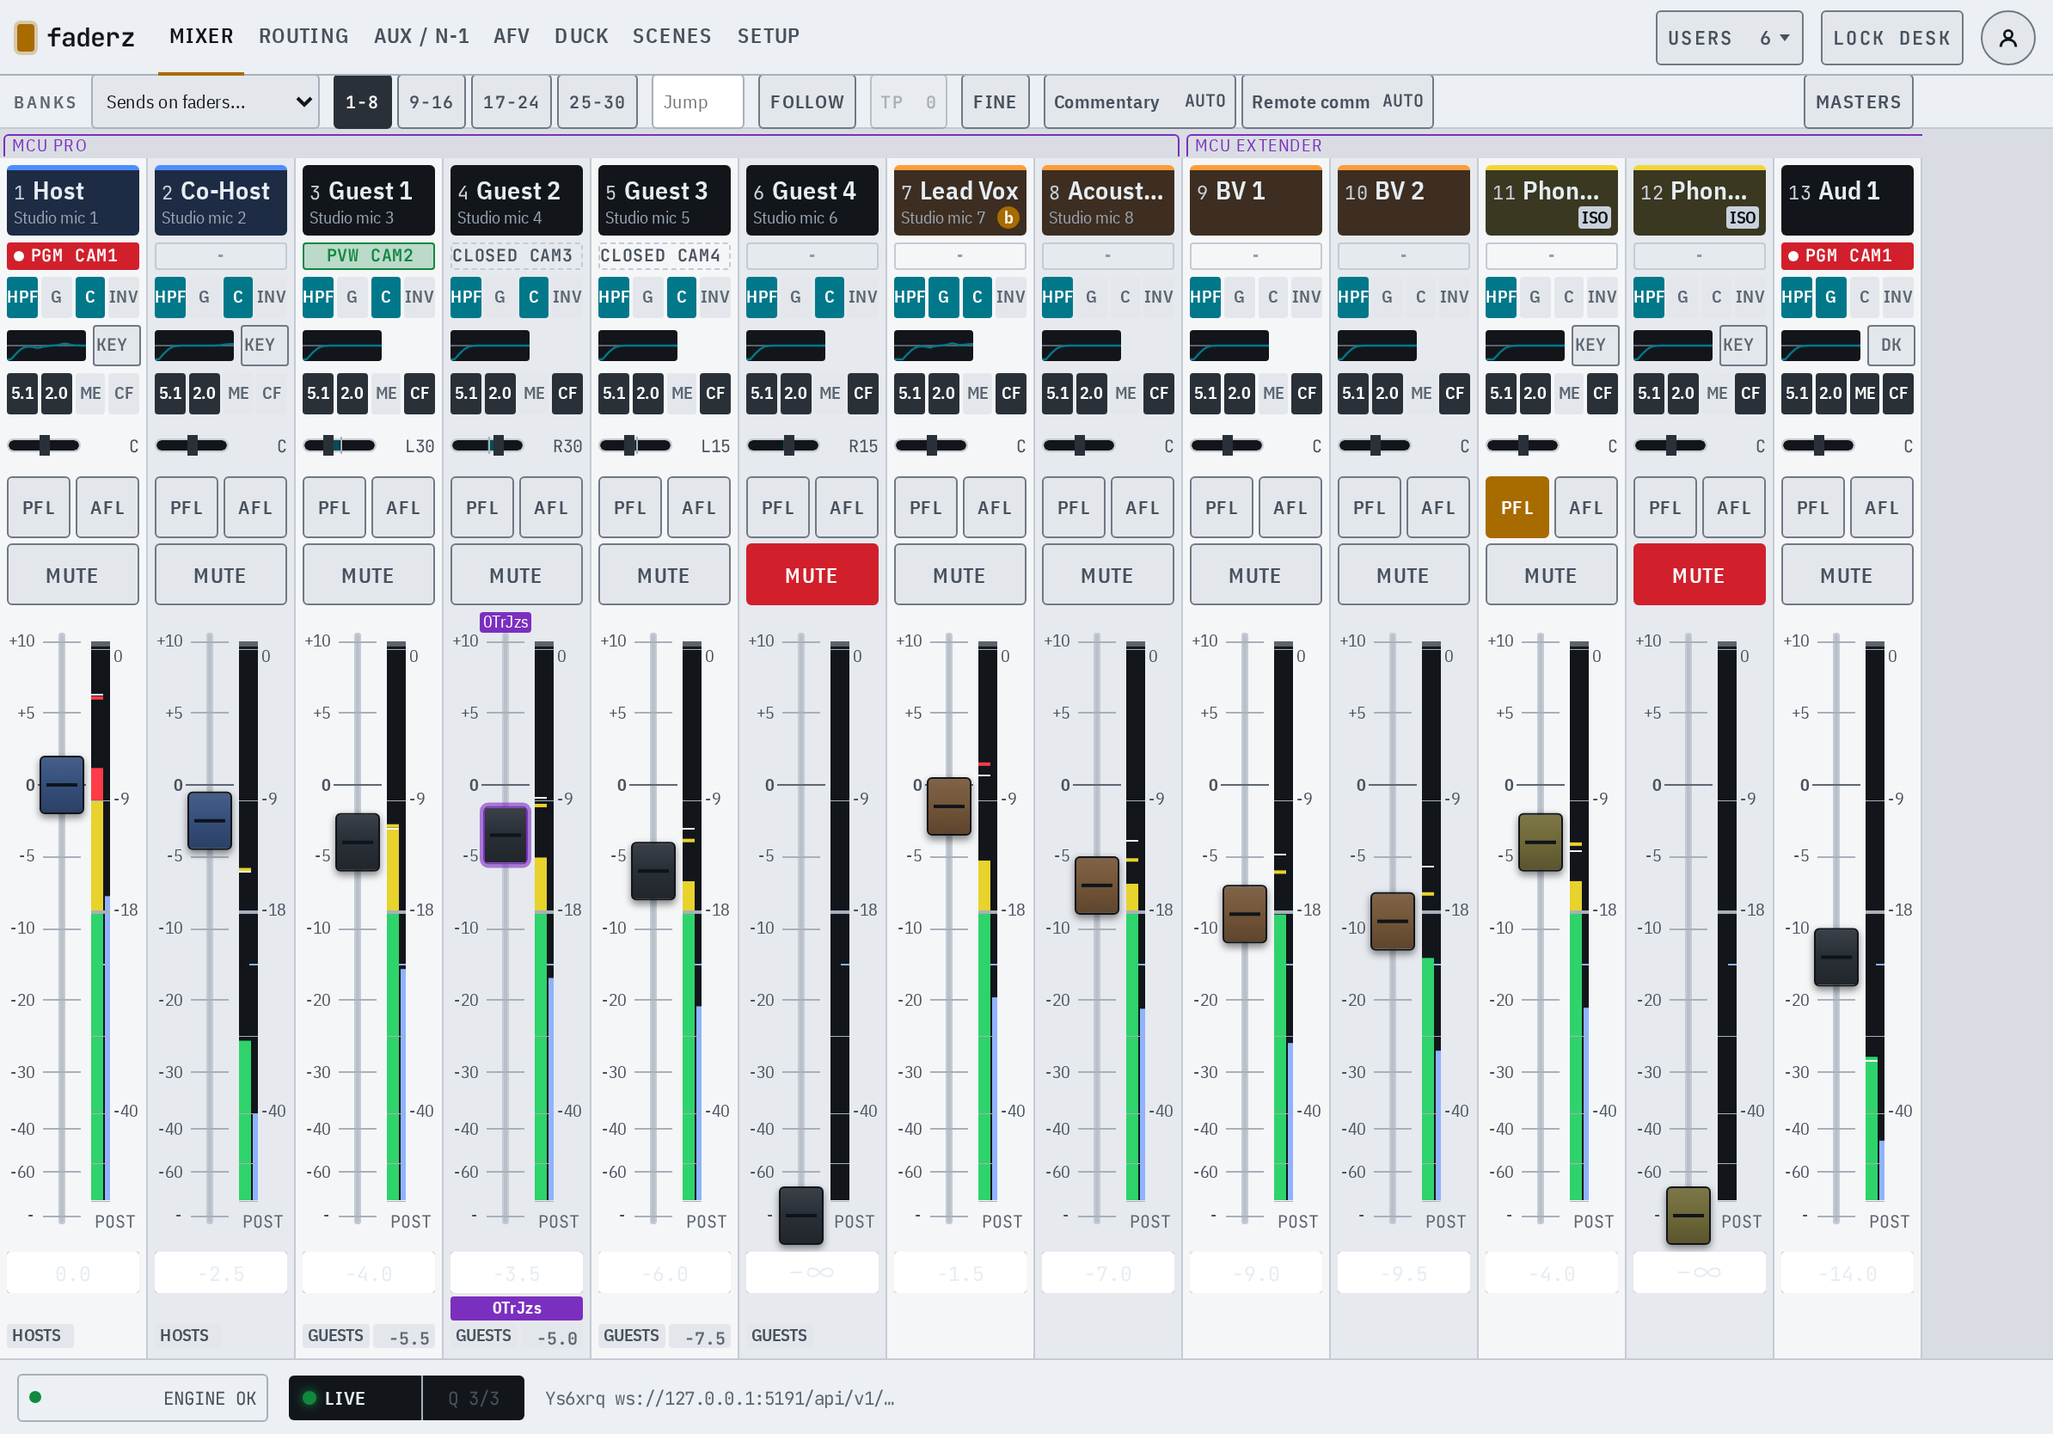
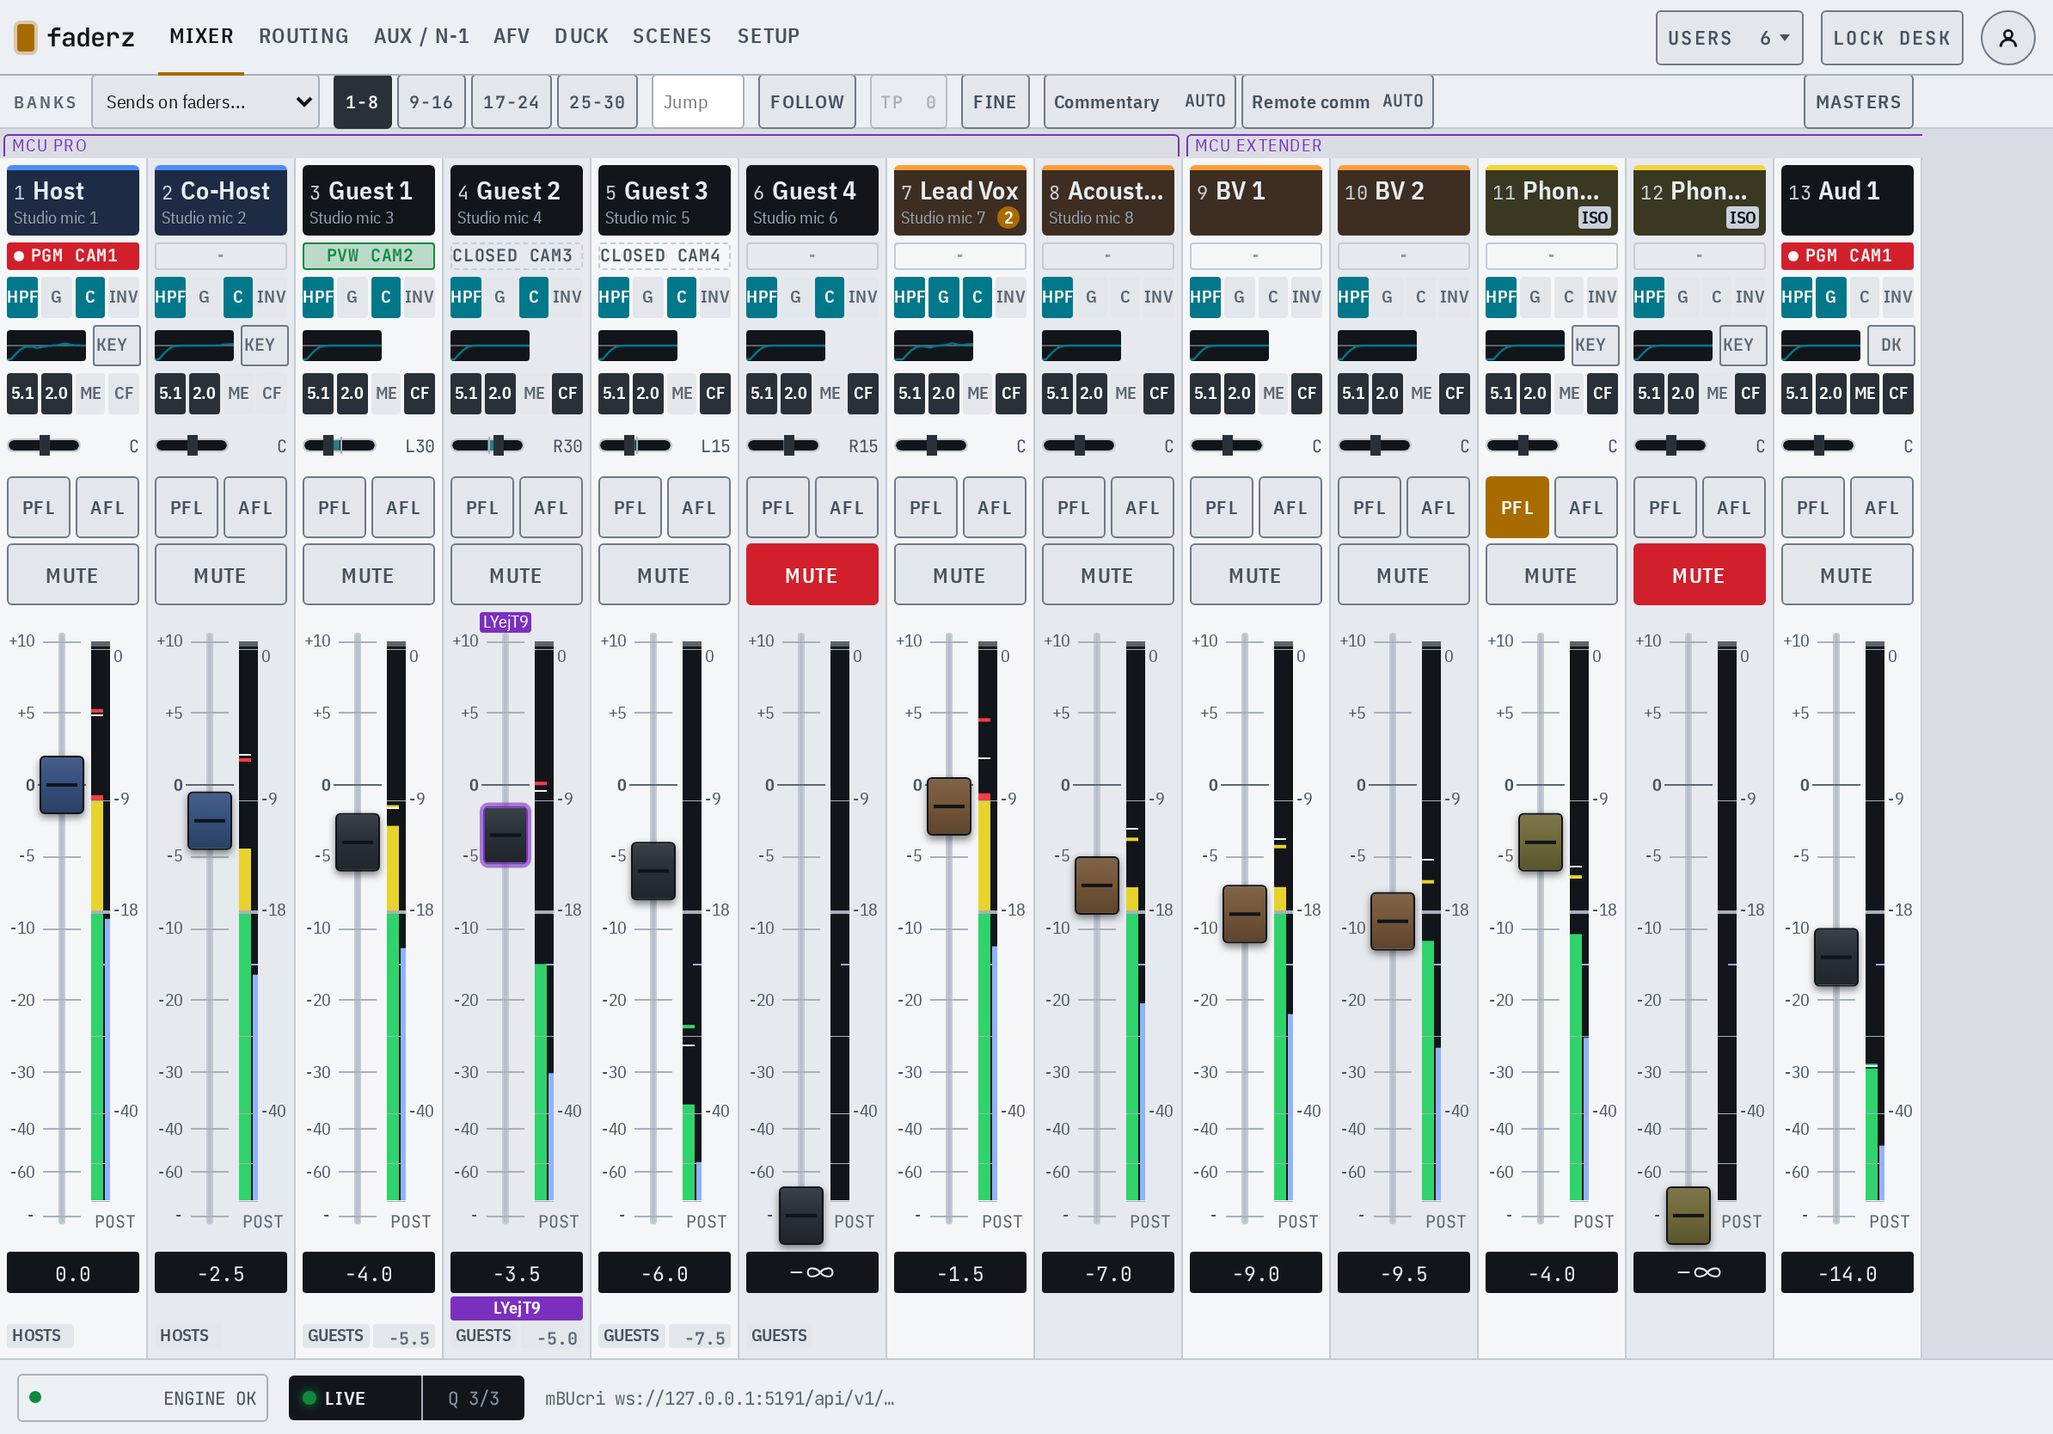
fix(web): read the text on dark display wells in the light theme (#213)
* fix(web): read the text on dark display wells in the light theme

A well stays dark in both themes, but some text and marks drawn on one
took theme tokens that turn dark in the light theme: the quorum field
of the connection key (2.3:1, and its degraded amber 4.1:1), the VCA
kind label (2.6:1), the loudness gap count, the duck key meter's over
fill (2.5:1) and the pan fill (1.9:1). They take --well-* tokens now,
with --well-warn, --well-owned and --well-afl added for the roles that
had none; the dark theme keeps its values.

A light-theme rule gave every text input a white face over its
component's own, so the fader readouts, transparent on their well,
showed light text on white (1.2:1), as did the delay entry. Text
fields take their face from --field instead: the well in the dark
theme, white in the light one. The sign-in field, a password input the
rule missed, showed dark text on the dark well and takes --field too.
An inline parameter value is now transparent until focused in the
light theme as well.

The contrast test parses every component and checks each text colour
set on an element on a well, or inside one, at 4.5:1 against the well
in both themes.

* docs: show the readable fader readouts in the light screenshot

The fader readouts and the quorum field read on their dark wells in
the light theme now.

* fix(web): draw the EQ curve in the well colours

The EQ curve sits on a well, which stays dark in both themes, but drew
[…]

diff --git a/web/tests/unit/contrast.test.ts b/web/tests/unit/contrast.test.ts
@@ -1,7 +1,8 @@
 // The theme tokens meet WCAG 2.2 AA where an operator reads them: text
 // at 4.5:1 on the surfaces it sits on, key edges at 3:1 (1.4.11).
 
-import { readFileSync } from 'node:fs';
+import { readdirSync, readFileSync } from 'node:fs';
+import { parse } from 'svelte/compiler';
 import { describe, expect, it } from 'vitest';
 import { SCRIBBLE_COLORS } from '../../src/lib/contract/types';
 
@@ -51,7 +52,7 @@ function resolve(value: string, t: Record<string, string>): string {
 describe.each([
   ['dark', dark],
   ['light', light],
-])('%s theme', (theme, t) => {
+])('%s theme', (_theme, t) => {
   it.each(['strip', 'strip-alt', 'panel', 'panel-2'])('faint text reads on --%s', (surface) => {
     expect(contrast(t['text-faint']!, t[surface]!)).toBeGreaterThanOrEqual(4.5);
   });
@@ -63,7 +64,7 @@ describe.each([
     expect(contrast('#ffffff', t['pgm']!)).toBeGreaterThanOrEqual(4.5);
     expect(contrast(t['afl-ink']!, t['afl']!)).toBeGreaterThanOrEqual(4.5);
   });
-  it.each(['well-mark', 'well-dim', 'well-duck'])('a mark of --%s shows on a well (3:1)', (mark) => {
+  it.each(['well-mark', 'well-dim', 'well-duck', 'well-warn', 'well-owned', 'well-afl'])('a mark of --%s shows on a well (3:1)', (mark) => {
     expect(contrast(t[mark]!, t['well']!)).toBeGreaterThanOrEqual(3);
   });
   it('a lit PAUSED loudness key carries readable ink', () => {
@@ -76,9 +77,7 @@ describe.each([
     expect(contrast(t['on']!, t['switch-off']!)).toBeGreaterThanOrEqual(3);
   });
   it('a typed number entry reads on the field it sits in', () => {
-    // The light theme gives every text field a white face (app.css), over the component's own.
-    const field = theme === 'light' ? /:root\[data-theme='light'\] input\[type='text'\],[^{]*\{\s*background:\s*#([0-9a-f]{3})\b/.exec(css)![1]!.replace(/./g, '$&$&').replace(/^/, '#') : resolve(entry.background!, t);
-    expect(contrast(resolve(entry.color!, t), field)).toBeGreaterThanOrEqual(4.5);
+    expect(contrast(resolve(entry.color!, t), resolve(entry.background!, t))).toBeGreaterThanOrEqual(4.5);
   });
   it.each(['thead th', '.setup th', '.idx'])('the Duck view labels of %s read on the page', (rule) => {
     // Every cell of the Duck view table sits on --bg.
@@ -88,6 +87,12 @@ describe.each([
     expect(contrast(t['duck-ink']!, t['duck']!)).toBeGreaterThanOrEqual(4.5);
     for (const surface of ['panel', 'panel-2']) expect(contrast(t['duck']!, t[surface]!)).toBeGreaterThanOrEqual(3);
   });
+});
+
+it('leaves a text field the face its component gives it in the light theme', () => {
+  // A global light-theme rule on inputs outranks a component's own and
+  // painted the fader readouts, which sit on a well, white under light text.
+  expect(css).not.toMatch(/:root\[data-theme='light'\][^{]*\binput\b/);
 });
 
 it('separates alternate strips in the light theme', () => {
@@ -152,5 +157,121 @@ describe('channel colours', () => {
       const face = mix(colour, tint, t['cap']!);
       expect(contrast(capLine, face)).toBeGreaterThanOrEqual(Math.min(3, contrast(capLine, t['cap']!)));
     });
+  });
+});
+
+// A well stays dark in both themes, so text drawn on one takes a colour
+// that reads on it in both (a --well-* token or a literal), never a theme
+// text token that turns dark in the light theme. An element a rule gives
+// the well's background is on the well, and so is everything inside it;
+// every text colour a rule gives one of them, short of a background of its
+// own, reads at 4.5:1 there. Combinators count as descendant ones. This
+// checks text colour only: marks on a well (strokes, fills, outlines) take
+// --well-* tokens, which the 3:1 checks above cover. Mixes of the well
+// (the scribble strip head) are pinned under channel colours.
+describe('text on a well', () => {
+  type Node = { type: string; [key: string]: unknown };
+  type Element = { name: string; classes: Set<string>; parent: Element | undefined; node: Node };
+  /** A compound selector: its type, if any, and its classes. */
+  type Compound = { type: string | undefined; classes: string[] };
+  type Rule = { selectors: Compound[][]; decls: Record<string, string>; text: string };
+
+  /** The rules of a stylesheet, media blocks included. */
+  function* rules(node: unknown, src: string): Generator<Rule> {
+    if (Array.isArray(node)) for (const n of node) yield* rules(n, src);
+    else if (node && typeof node === 'object') {
+      const n = node as Node;
+      if (n.type === 'Rule') {
+        const prelude = n['prelude'] as Node;
+        const selectors = (prelude['children'] as Node[]).map((complex) =>
+          (complex['children'] as Node[]).map(({ selectors: s }) => ({
+            type: (s as Node[]).find((x) => x.type === 'TypeSelector')?.['name'] as string | undefined,
+            classes: (s as Node[]).filter((x) => x.type === 'ClassSelector').map((x) => x['name'] as string),
+          })),
+        );
+        const decls = (n['block'] as { children: Node[] }).children.filter((d) => d.type === 'Declaration');
+        yield { selectors, decls: Object.fromEntries(decls.map((d) => [d['property'], d['value']])), text: src.slice(n['start'] as number, prelude['end'] as number) };
+      }
+      for (const [key, value] of Object.entries(n)) if (key !== 'metadata' && key !== 'prelude') yield* rules(value, src);
+    }
+  }
+
+  /** The elements of a template, each with its static and directive classes and the element around it. */
+  function elements(node: unknown, parent?: Element, out: Element[] = []): Element[] {
+    if (Array.isArray(node)) for (const n of node) elements(n, parent, out);
+    else if (node && typeof node === 'object') {
+      const n = node as Node;
+      let inner = parent;
+      if (n.type === 'RegularElement') {
+        const classes = new Set<string>();
+        for (const a of n['attributes'] as Node[]) {
+          if (a.type === 'ClassDirective') classes.add(a['name'] as string);
+          if (a.type === 'Attribute' && a['name'] === 'class' && Array.isArray(a['value']))
+            for (const part of a['value'] as Node[]) if (part.type === 'Text') for (const c of (part['data'] as string).split(/\s+/)) if (c) classes.add(c);
+        }
+        inner = { name: n['name'] as string, classes, parent, node: n };
+        out.push(inner);
+      }
+      for (const [key, value] of Object.entries(n)) if (key !== 'metadata') elements(value, inner, out);
+    }
+    return out;
+  }
+
+  const fits = (c: Compound, e: Element) => (c.type === undefined || c.type === e.name) && c.classes.every((x) => e.classes.has(x));
+
+  /** Whether a selector can match the element: its subject does, and each compound before it an element around it. */
+  function matches(selector: Compound[], e: Element): boolean {
+    const subject = selector.at(-1)!;
+    if ((subject.type === undefined && subject.classes.length === 0) || !fits(subject, e)) return false;
+    let at = e.parent;
+    for (const c of selector.slice(0, -1).reverse()) {
+      while (at && !fits(c, at)) at = at.parent;
+      if (!at) return false;
+      at = at.parent;
+    }
+    return true;
+  }
+
+  /** A colour as written in a rule, in a theme: a token, #rgb or #rrggbb; undefined for inherit, transparent or currentColor. */
+  function colour(value: string, t: Record<string, string>): string | undefined {
+    if (/^(inherit|transparent|currentColor)$/i.test(value)) return undefined;
+    const hex = resolve(value, t);
+    if (/^#[0-9a-f]{3}$/i.test(hex)) return hex.replace(/[0-9a-f]/gi, '$&$&');
+    if (!/^#[0-9a-f]{6}$/i.test(hex)) throw new Error(`cannot resolve ${value}`);
+    return hex;
+  }
+
+  const isWell = (background: string | undefined) => background === 'var(--well)';
+  const dir = new URL('../../src/components/', import.meta.url);
+
+  /** Every rule that colours text on a well: its file, selector and colour. */
+  const onWells = readdirSync(dir)
+    .filter((f) => f.endsWith('.svelte'))
+    .flatMap((file) => {
+      const src = readFileSync(new URL(file, dir), 'utf8');
+      const ast = parse(src, { modern: true });
+      const all = [...rules(ast.css, src)];
+      const els = elements(ast.fragment);
+      const wells = new Set(els.filter((e) => all.some((r) => (isWell(r.decls['background']) || isWell(r.decls['background-color'])) && r.selectors.some((s) => matches(s, e)))));
+      const onWell = (e: Element | undefined): boolean => e !== undefined && (wells.has(e) || onWell(e.parent));
+      return all
+        .filter((r) => r.decls['color'] !== undefined && [r.decls['background'], r.decls['background-color']].every((b) => b === undefined || b === 'transparent' || isWell(b)))
+        .filter((r) => els.some((e) => onWell(e) && r.selectors.some((s) => matches(s, e))))
+        .map((r) => ({ at: `${file} ${r.text.trim().replace(/\s+/g, ' ')}`, color: r.decls['color']! }));
+    });
+
+  it('finds the text on the wells it guards', () => {
+    expect(onWells.map((r) => r.at)).toEqual(expect.arrayContaining(['ConnectionKey.svelte .quorum', 'ConnectionKey.svelte .quorum.degraded', 'VcaMaster.svelte .kind']));
+  });
+
+  it.each([
+    ['dark', dark],
+    ['light', light],
+  ])('reads at 4.5:1 on the well in the %s theme', (_theme, t) => {
+    const low = onWells.flatMap(({ at, color }) => {
+      const c = colour(color, t);
+      return c !== undefined && contrast(c, t['well']!) < 4.5 ? [`${at}: ${color} at ${contrast(c, t['well']!).toFixed(2)}:1`] : [];
+    });
+    expect(low).toEqual([]);
   });
 });

diff --git a/web/src/app.css b/web/src/app.css
@@ -10,11 +10,19 @@
   --strip-alt: #11151a;
   --strip-sel: #1c2430;
   --well: #07090b;
-  /* Marks drawn on a well, dark in both themes: a level, an idle level
-     and a duck reduction, each at least 3:1 against it. */
+  /* Marks and text drawn on a well, dark in both themes: a level or
+     bright text, an idle level or dim text, a duck reduction, a warning,
+     ownership and an AFL fill. Marks at 3:1 or more against it, text at
+     4.5:1 or more. */
   --well-mark: #dfe5ec;
   --well-dim: #8b96a4;
   --well-duck: #f472b6;
+  --well-warn: #ffb000;
+  --well-owned: #c77dff;
+  --well-afl: #3fd0e0;
+  /* The face of a text field: the well in this theme, white in the
+     light one. */
+  --field: #07090b;
   --line: #232a33;
   --line-strong: #323c48;
   --text: #dfe5ec;
@@ -95,6 +103,10 @@
   --well-mark: #dfe5ec;
   --well-dim: #8b96a4;
   --well-duck: #f472b6;
+  --well-warn: #ffb000;
+  --well-owned: #c77dff;
+  --well-afl: #3fd0e0;
+  --field: #ffffff;
   --line: #c4cbd4;
   --line-strong: #a7b0bb;
   --text: #11151a;
@@ -320,16 +332,12 @@ select {
 
 input[type='text'],
 input[type='number'] {
-  background: var(--well);
+  background: var(--field);
   color: var(--text);
   border: 1px solid var(--line-strong);
   border-radius: 3px;
   height: 26px;
   padding: 0 6px;
-}
-:root[data-theme='light'] input[type='text'],
-:root[data-theme='light'] input[type='number'] {
-  background: #fff;
 }
 
 ::-webkit-scrollbar {

diff --git a/web/src/components/ConnectionKey.svelte b/web/src/components/ConnectionKey.svelte
@@ -290,7 +290,7 @@
     line-height: var(--h, 24px);
     text-align: center;
     border-radius: 0 3px 3px 0;
-    color: var(--text-dim);
+    color: var(--well-dim);
     cursor: pointer;
   }
   /* A lost quorum on a phone: the words on two lines in the 18 px key. */
@@ -309,8 +309,8 @@
   }
   /* Quorum held without every replica: amber, before it is lost. */
   .quorum.degraded {
-    color: var(--warn);
-    box-shadow: inset 0 0 0 1px var(--warn);
+    color: var(--well-warn);
+    box-shadow: inset 0 0 0 1px var(--well-warn);
   }
   .quorum.lost {
     background: var(--err);

diff --git a/web/src/components/Loudness.svelte b/web/src/components/Loudness.svelte
@@ -291,7 +291,7 @@
   /* The count first: the start gives way, cut with an ellipsis. */
   .note .gaps {
     flex: none;
-    color: var(--warn);
+    color: var(--well-warn);
   }
   .note .since {
     min-width: 0;
@@ -316,7 +316,7 @@
   }
   /* Held by a paused integration: a dashed amber edge, which takes no room. */
   .held span {
-    outline: 1px dashed var(--warn);
+    outline: 1px dashed var(--well-warn);
     outline-offset: -1px;
   }
   .key.pause[aria-pressed='true'] {

diff --git a/web/src/components/Pan.svelte b/web/src/components/Pan.svelte
@@ -168,8 +168,8 @@
     background-image: linear-gradient(
       to right,
       transparent var(--a),
-      color-mix(in srgb, var(--afl) 55%, transparent) var(--a),
-      color-mix(in srgb, var(--afl) 55%, transparent) var(--b),
+      color-mix(in srgb, var(--well-afl) 55%, transparent) var(--a),
+      color-mix(in srgb, var(--well-afl) 55%, transparent) var(--b),
       transparent var(--b)
     );
     background-clip: padding-box;

diff --git a/web/src/components/DelayEntry.svelte b/web/src/components/DelayEntry.svelte
@@ -123,8 +123,8 @@
     height: 24px;
     text-align: right;
     font-size: 12px;
-    background: var(--well);
-    color: #e6edf3;
+    background: var(--field);
+    color: var(--text);
     border: 1px solid var(--line-strong);
     border-radius: 3px;
     padding: 0 5px;

diff --git a/web/src/components/EqCurve.svelte b/web/src/components/EqCurve.svelte
@@ -63,11 +63,11 @@
   }
   polyline {
     fill: none;
-    stroke: var(--text-faint);
+    stroke: var(--well-dim);
     stroke-width: 1.2;
     stroke-linejoin: round;
   }
   .active polyline {
-    stroke: var(--afl);
+    stroke: var(--well-afl);
   }
 </style>

diff --git a/web/src/components/NumberEntry.svelte b/web/src/components/NumberEntry.svelte
@@ -95,7 +95,7 @@
     height: 24px;
     text-align: right;
     font-size: 12px;
-    background: var(--well);
+    background: var(--field);
     color: var(--text);
     border: 1px solid var(--line-strong);
     border-radius: 3px;

diff --git a/web/src/components/SignIn.svelte b/web/src/components/SignIn.svelte
@@ -108,7 +108,7 @@
     padding: 6px 8px;
     border: 1px solid var(--line-strong);
     border-radius: 3px;
-    background: var(--well);
+    background: var(--field);
     color: var(--text);
     font: inherit;
   }

diff --git a/web/src/components/Param.svelte b/web/src/components/Param.svelte
@@ -128,7 +128,7 @@
   .entry:focus-visible {
     outline: 2px solid var(--focus);
     outline-offset: 0;
-    background: var(--well);
+    background: var(--field);
   }
   .foreign .entry {
     color: var(--owned);

diff --git a/web/src/components/DuckTile.svelte b/web/src/components/DuckTile.svelte
@@ -195,7 +195,7 @@
     background: var(--meter-low);
   }
   .keymeter .key.over {
-    background: var(--duck);
+    background: var(--well-duck);
   }
   .keymeter .marker {
     position: absolute;

diff --git a/web/src/components/VcaMaster.svelte b/web/src/components/VcaMaster.svelte
@@ -76,7 +76,7 @@
   .kind {
     display: block;
     font-size: 10px;
-    color: var(--owned);
+    color: var(--well-owned);
     font-weight: 600;
     letter-spacing: 0.1em;
   }
